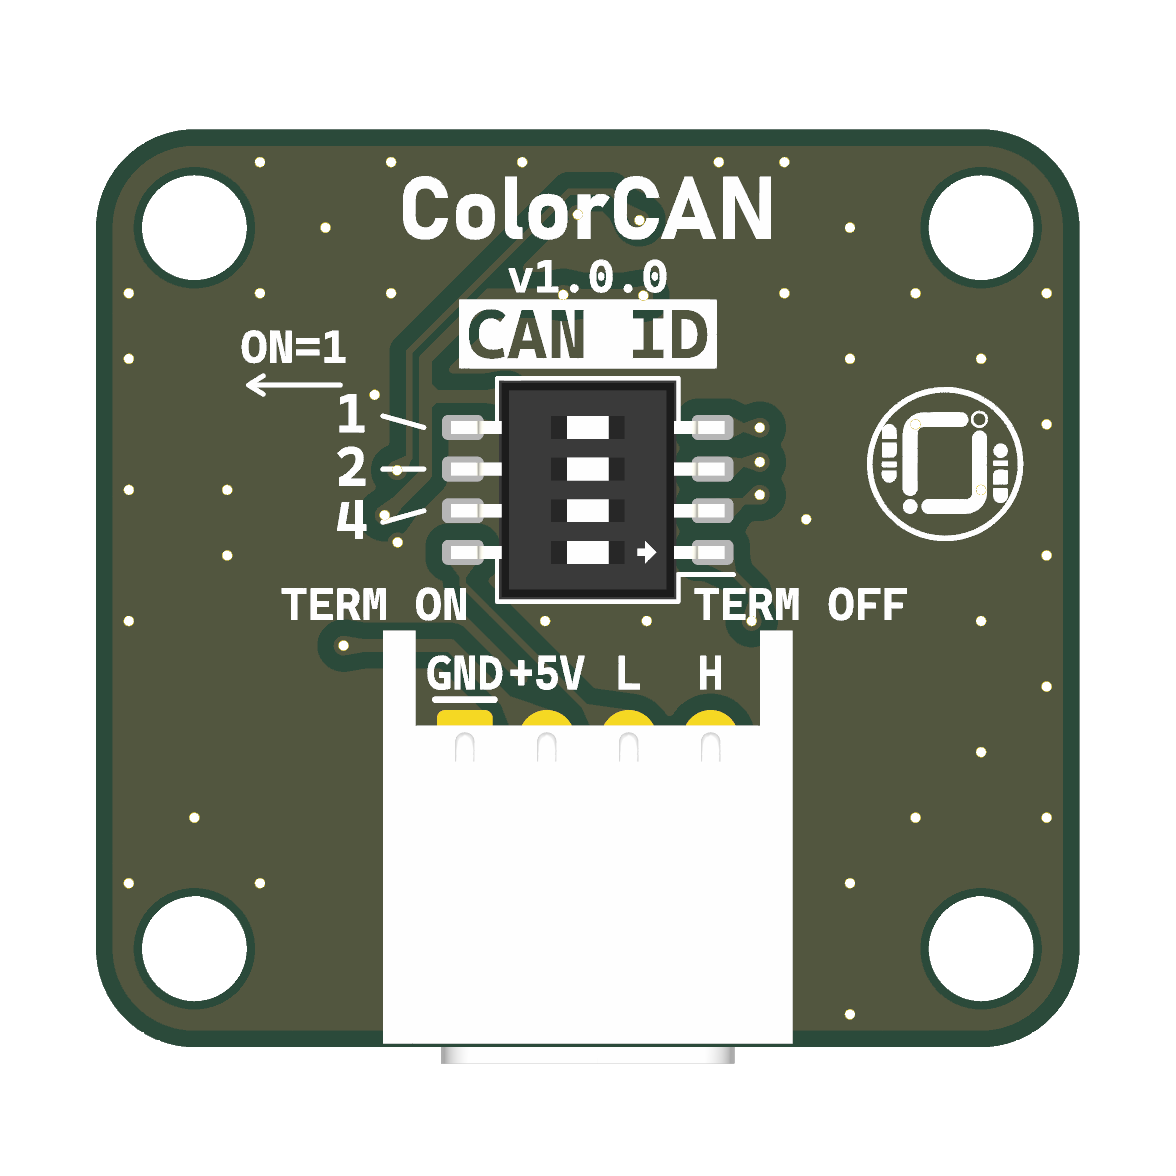
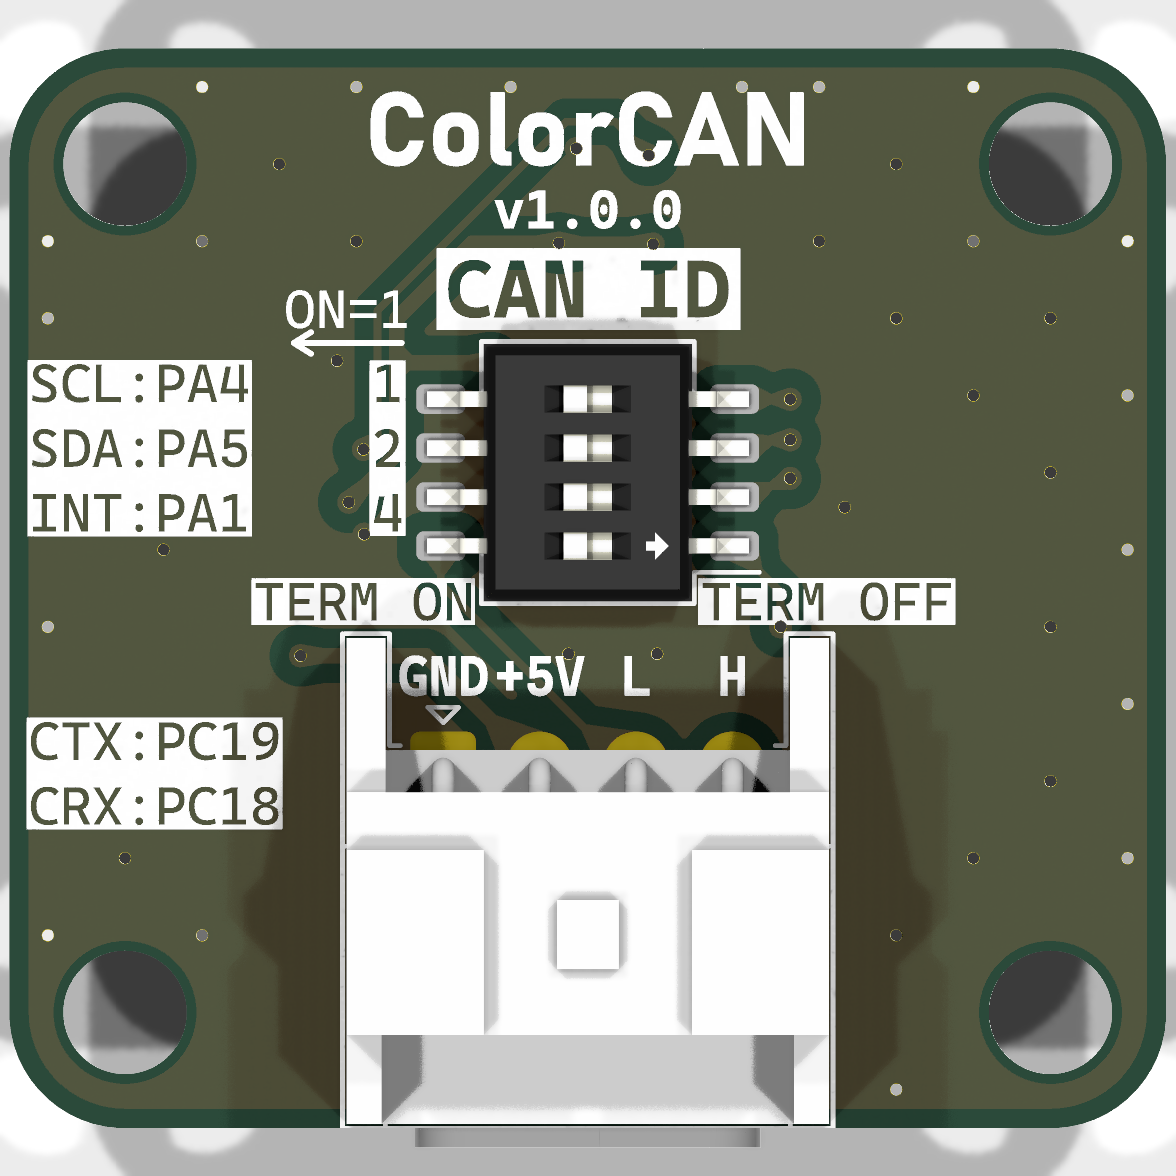
Refresh ColorCAN 3D views from current PCB

diff --git a/README.md b/README.md
@@ -2,10 +2,10 @@
 
 TCS34725FNで測定した赤・緑・青・Clearの値を、Classic CANで送るカラーセンサ基板です。基板シルクは **v1.0.0**、CANのハートビートで通知するプロトコル版は **1** です。
 
-<img src="images/usb-side.png" alt="ColorCANのUSB-C面。上部にカラーセンサと照明LED、下部にUSB-CとBOOTボタン" width="350">
+<img src="images/usb-side.png" alt="ColorCANのUSB-C面。上部にセンサの実装位置と照明LED、下部にUSB-CとBOOTボタン" width="350">
 <img src="images/can-side.png" alt="ColorCANのCAN面。中央にDIPスイッチ、下部にJST XAコネクタ" width="350">
 
-基板の配置図はKiCadの3D表示です。DIPスイッチの操作方向は、基板の `ON=1` と `TERM ON` を参照してください。
+基板の配置図はKiCadの3D表示です。この表示ではカラーセンサとマイコンの実装位置がパッドで見えます。DIPスイッチの操作方向は、基板のシルクにある `ON=1` と `TERM ON` を参照してください。
 
 ## 基板仕様
 
